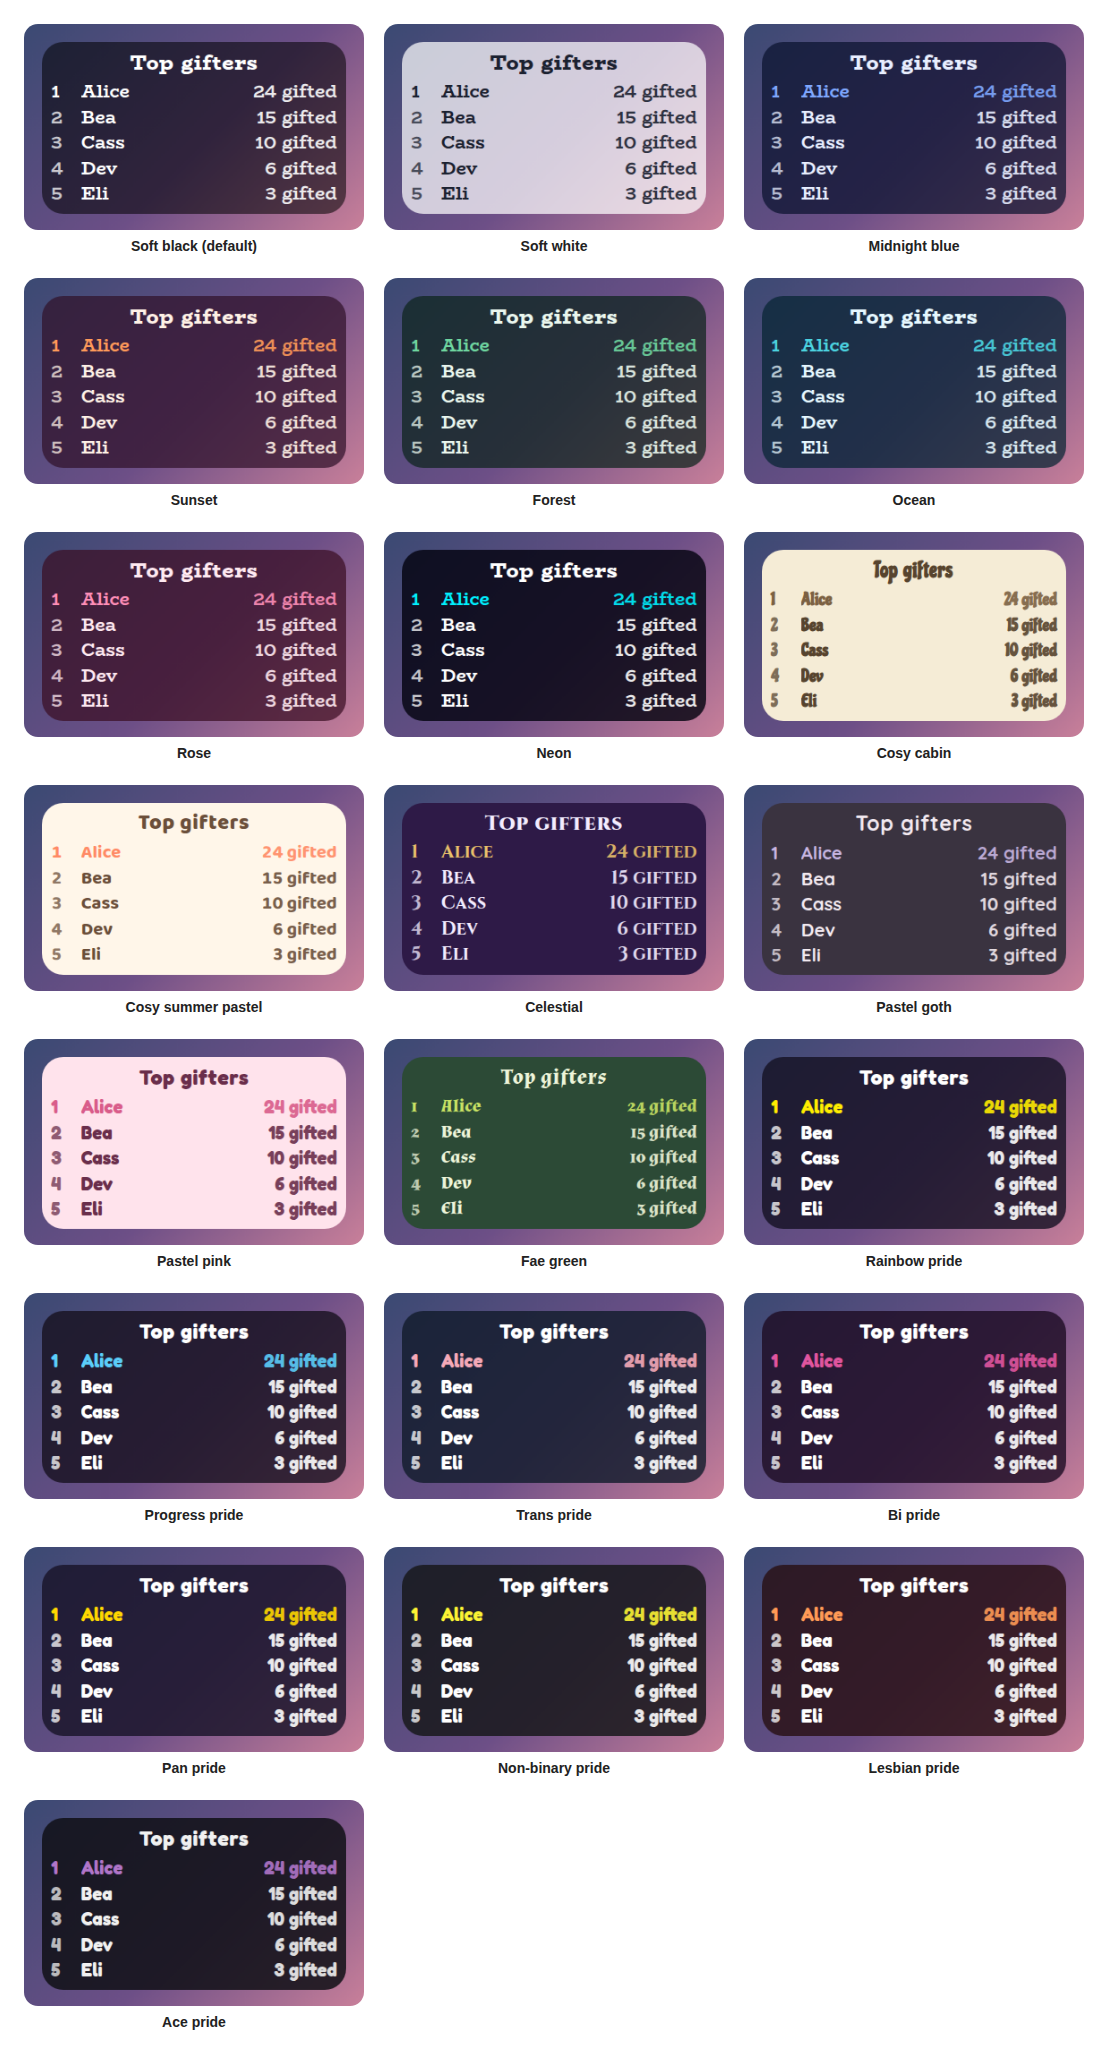
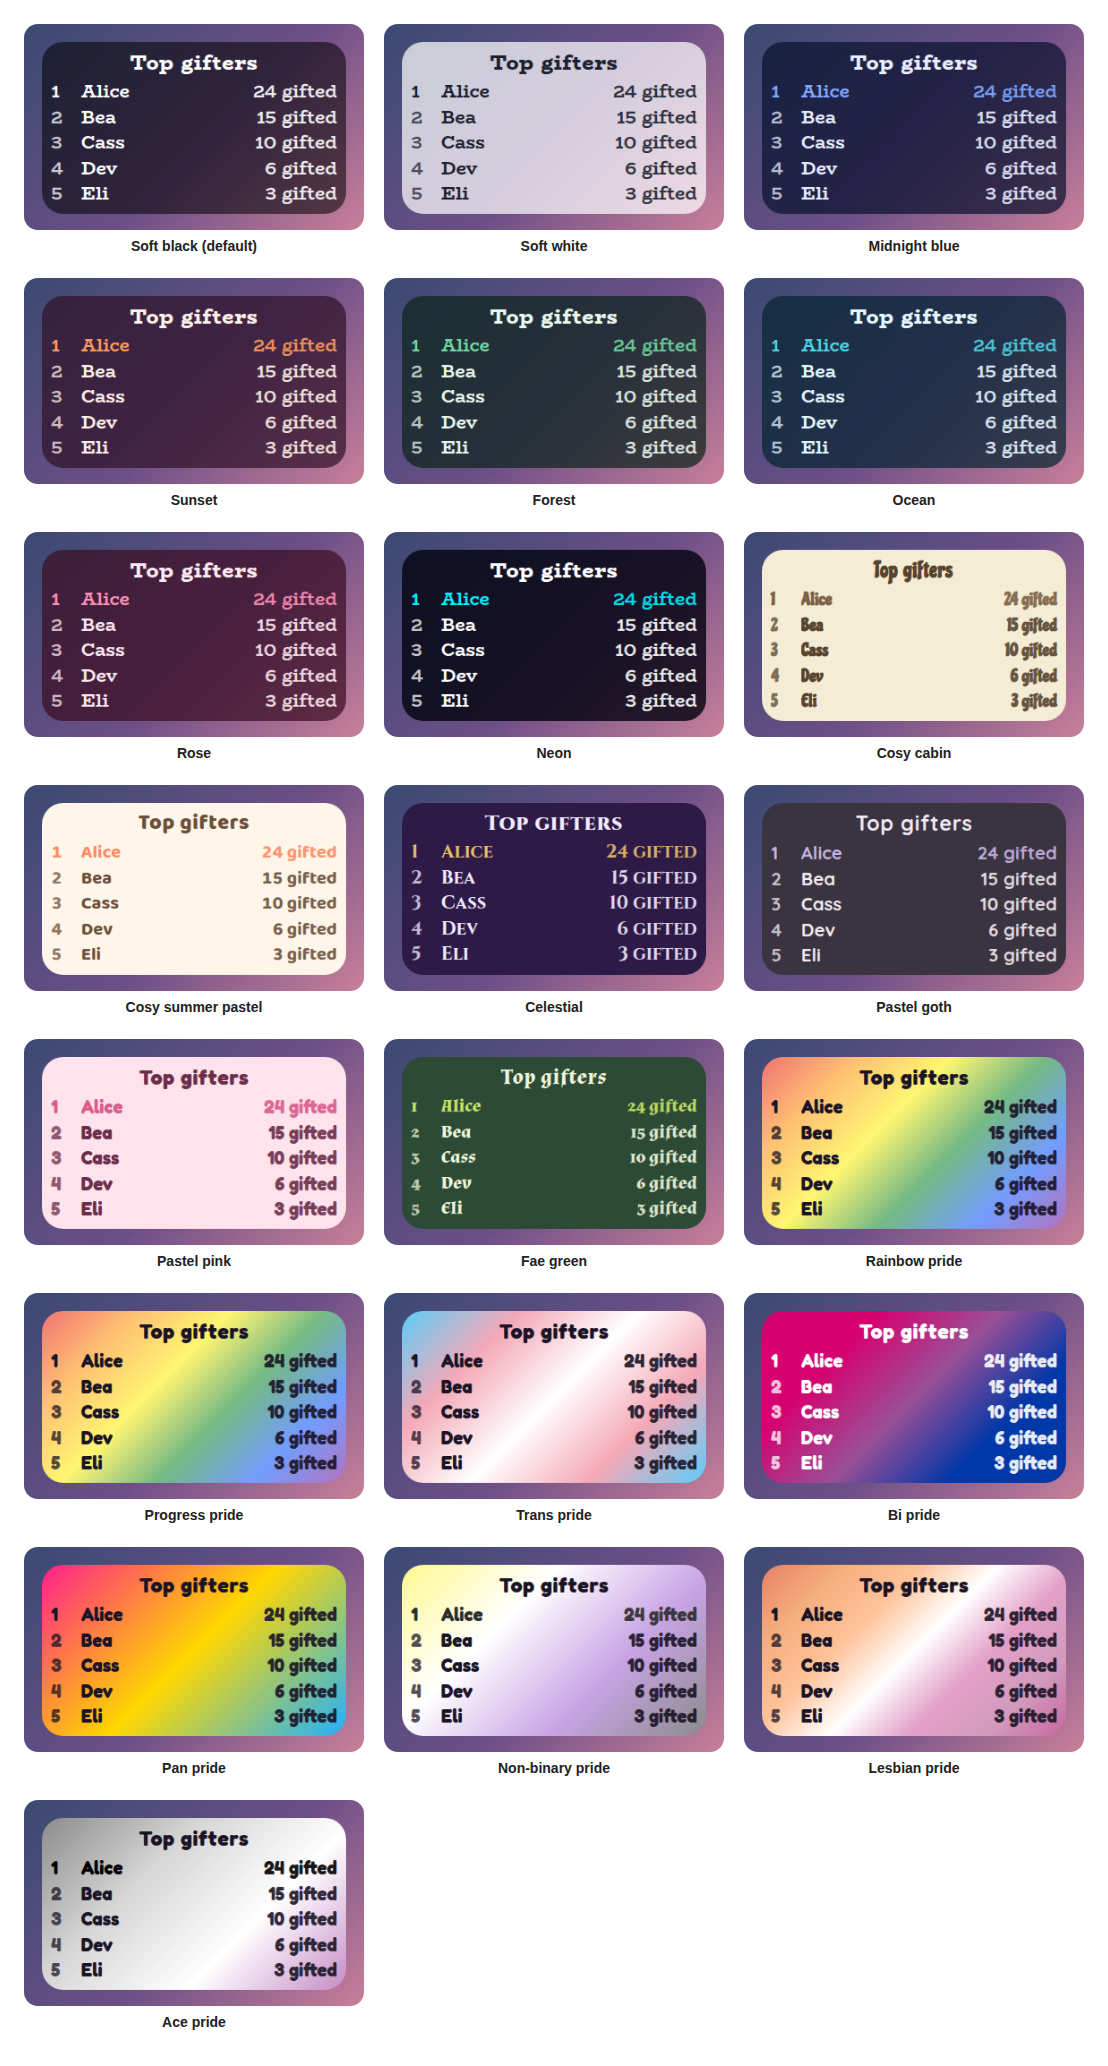
Give the pride presets flag-coloured panels
The pride presets used to be a dark card with only a thin striped bar, so the flag barely showed and the card did not match the palette. Now the card or panel itself wears the flag, as a soft gradient of its stripes, with the text kept readable.

How strong a wash goes over it is worked out, not guessed: the weakest scrim that keeps the text at a contrast of 4.6 or better against every stripe, in white or dark text as the flag needs. Trans, bi and pan need none, and a flag with a black stripe, such as ace and non-binary, gets a lighter wash. A plain colour stays as the fallback, so nothing that only understands a colour is affected, and every other preset, and Custom, is unchanged. The README gallery shows all twenty-two, and the tests check it.

Changed region(s): [[0.0307, 0.6196, 0.6444, 0.9603], [0.6751, 0.4956, 0.9819, 0.8674]]

diff --git a/widget/widget.js b/widget/widget.js
@@ -18,14 +18,14 @@
     pastelgoth: { panel: "#3A3340", text: "#F2E9F0", accent: "#C8B6E2", track: "rgba(255, 255, 255, 0.18)", alarm: "#C96A8E", font: "Quicksand" },
     pastelpink: { panel: "#FFE3EC", text: "#6A2E4B", accent: "#D95C8A", track: "rgba(106, 46, 75, 0.14)", alarm: "#D6456F", font: "Fredoka" },
     faegreen: { panel: "#2C4A36", text: "#EEF5DA", accent: "#C9E265", track: "rgba(238, 245, 218, 0.2)", alarm: "#E0805A", font: "Almendra" },
-    pride: { panel: "rgba(20, 16, 34, 0.8)", text: "#FFFFFF", accent: "#FFEE00", track: "rgba(255, 255, 255, 0.2)", alarm: "#FF5C5C", font: "Fredoka", flag: ["#E50000", "#FF8D00", "#FFEE00", "#028121", "#004CFF", "#770088"] },
-    progress: { panel: "rgba(22, 16, 30, 0.8)", text: "#FFFFFF", accent: "#5BCEFA", track: "rgba(255, 255, 255, 0.2)", alarm: "#FF5C5C", font: "Fredoka", flag: ["#E50000", "#FF8D00", "#FFEE00", "#028121", "#004CFF", "#770088"] },
-    trans: { panel: "rgba(18, 28, 44, 0.82)", text: "#FFFFFF", accent: "#F5A9B8", track: "rgba(255, 255, 255, 0.2)", alarm: "#FF5C5C", font: "Fredoka", flag: ["#5BCEFA", "#F5A9B8", "#FFFFFF", "#F5A9B8", "#5BCEFA"] },
-    bi: { panel: "rgba(30, 14, 36, 0.82)", text: "#FFFFFF", accent: "#E0559F", track: "rgba(255, 255, 255, 0.2)", alarm: "#FF5C5C", font: "Fredoka", flag: ["#D60270", "#D60270", "#9B4F96", "#0038A8", "#0038A8"] },
-    pan: { panel: "rgba(24, 20, 40, 0.82)", text: "#FFFFFF", accent: "#FFD800", track: "rgba(255, 255, 255, 0.2)", alarm: "#FF5C5C", font: "Fredoka", flag: ["#FF218C", "#FFD800", "#21B1FF"] },
-    enby: { panel: "rgba(24, 24, 28, 0.86)", text: "#FFFFFF", accent: "#FFF433", track: "rgba(255, 255, 255, 0.2)", alarm: "#FF5C5C", font: "Fredoka", flag: ["#FFF433", "#FFFFFF", "#9B59D0", "#2D2D2D"] },
-    lesbian: { panel: "rgba(40, 16, 20, 0.82)", text: "#FFFFFF", accent: "#FF9A56", track: "rgba(255, 255, 255, 0.2)", alarm: "#FF5C5C", font: "Fredoka", flag: ["#D52D00", "#EF7627", "#FF9A56", "#FFFFFF", "#D162A4", "#B55690", "#A30262"] },
-    ace: { panel: "rgba(16, 16, 22, 0.86)", text: "#F1F1F1", accent: "#B075C9", track: "rgba(255, 255, 255, 0.2)", alarm: "#FF5C5C", font: "Fredoka", flag: ["#000000", "#A3A3A3", "#FFFFFF", "#800080"] }
+    pride: { panel: "rgba(194, 168, 154, 0.9)", text: "#1A1426", accent: "#1A1426", track: "rgba(26, 20, 38, 0.34)", alarm: "#B3123A", font: "Fredoka", flag: ["#E50000", "#FF8D00", "#FFEE00", "#028121", "#004CFF", "#770088"], bgimg: "linear-gradient(rgba(255, 255, 255, 0.45), rgba(255, 255, 255, 0.45)), linear-gradient(135deg, #E50000, #FF8D00, #FFEE00, #028121, #004CFF, #770088)" },
+    progress: { panel: "rgba(194, 168, 154, 0.9)", text: "#1A1426", accent: "#1A1426", track: "rgba(26, 20, 38, 0.34)", alarm: "#B3123A", font: "Fredoka", flag: ["#E50000", "#FF8D00", "#FFEE00", "#028121", "#004CFF", "#770088"], bgimg: "linear-gradient(rgba(255, 255, 255, 0.45), rgba(255, 255, 255, 0.45)), linear-gradient(135deg, #E50000, #FF8D00, #FFEE00, #028121, #004CFF, #770088)" },
+    trans: { panel: "rgba(185, 201, 225, 0.9)", text: "#1A1426", accent: "#1A1426", track: "rgba(26, 20, 38, 0.34)", alarm: "#B3123A", font: "Fredoka", flag: ["#5BCEFA", "#F5A9B8", "#FFFFFF", "#F5A9B8", "#5BCEFA"], bgimg: "linear-gradient(135deg, #5BCEFA, #F5A9B8, #FFFFFF, #F5A9B8, #5BCEFA)" },
+    bi: { panel: "rgba(117, 39, 142, 0.9)", text: "#FFFFFF", accent: "#FFFFFF", track: "rgba(255, 255, 255, 0.24)", alarm: "#FF6B6B", font: "Fredoka", flag: ["#D60270", "#D60270", "#9B4F96", "#0038A8", "#0038A8"], bgimg: "linear-gradient(135deg, #D60270, #D60270, #9B4F96, #0038A8, #0038A8)" },
+    pan: { panel: "rgba(181, 142, 132, 0.9)", text: "#1A1426", accent: "#1A1426", track: "rgba(26, 20, 38, 0.34)", alarm: "#B3123A", font: "Fredoka", flag: ["#FF218C", "#FFD800", "#21B1FF"], bgimg: "linear-gradient(135deg, #FF218C, #FFD800, #21B1FF)" },
+    enby: { panel: "rgba(212, 202, 192, 0.9)", text: "#1A1426", accent: "#2D2D2D", track: "rgba(26, 20, 38, 0.34)", alarm: "#B3123A", font: "Fredoka", flag: ["#FFF433", "#FFFFFF", "#9B59D0", "#2D2D2D"], bgimg: "linear-gradient(rgba(255, 255, 255, 0.45), rgba(255, 255, 255, 0.45)), linear-gradient(135deg, #FFF433, #FFFFFF, #9B59D0, #2D2D2D)" },
+    lesbian: { panel: "rgba(232, 167, 169, 0.9)", text: "#1A1426", accent: "#1A1426", track: "rgba(26, 20, 38, 0.34)", alarm: "#B3123A", font: "Fredoka", flag: ["#D52D00", "#EF7627", "#FF9A56", "#FFFFFF", "#D162A4", "#B55690", "#A30262"], bgimg: "linear-gradient(rgba(255, 255, 255, 0.40), rgba(255, 255, 255, 0.40)), linear-gradient(135deg, #D52D00, #EF7627, #FF9A56, #FFFFFF, #D162A4, #B55690, #A30262)" },
+    ace: { panel: "rgba(202, 187, 202, 0.9)", text: "#1A1426", accent: "#000000", track: "rgba(26, 20, 38, 0.34)", alarm: "#B3123A", font: "Fredoka", flag: ["#000000", "#A3A3A3", "#FFFFFF", "#800080"], bgimg: "linear-gradient(rgba(255, 255, 255, 0.55), rgba(255, 255, 255, 0.55)), linear-gradient(135deg, #000000, #A3A3A3, #FFFFFF, #800080)" }
   };
 
   // ---- shared by every overlay in this set ----
@@ -117,6 +117,7 @@
     s.setProperty("--w-track", t.track);
     s.setProperty("--w-alarm", t.alarm);
     s.setProperty("--w-flag", t.flag ? flagGradient(t.flag) : t.accent);
+    s.setProperty("--w-bgimg", t.bgimg || "none");
     s.setProperty("--w-font", '"' + t.font + '", Georgia, serif');
     s.setProperty("--w-radius", c.radius + "px");
     s.setProperty("--w-pad", c.pad);

diff --git a/test/mock.js b/test/mock.js
@@ -112,6 +112,8 @@ module.exports = function createEnv(root) {
         if (v["--w-bg"] !== x.panel || v["--w-text"] !== x.text || v["--w-accent"] !== x.accent || String(v["--w-font"]).indexOf('"' + x.font + '"') !== 0) {
           all = false; console.log("    colours differ for " + key + ": " + v["--w-bg"]);
         }
+        // A pride preset puts its flag behind the panel as an image. Every other preset leaves the panel plain.
+        if (v["--w-bgimg"] !== (x.bgimg || "none")) { all = false; console.log("    panel image differs for " + key + ": " + v["--w-bgimg"]); }
         // A pride preset gives bars the stripes of its flag, top to bottom. Every other preset gives them the accent.
         const wantFlag = x.flag ? "linear-gradient(180deg, " + x.flag[0] + " 0% " + (100 / x.flag.length) + "%" : x.accent;
         if (x.flag ? String(v["--w-flag"]).indexOf(wantFlag) !== 0 || String(v["--w-flag"]).split(", ").length !== x.flag.length + 1 : v["--w-flag"] !== wantFlag) {

diff --git a/widget/widget.css b/widget/widget.css
@@ -45,6 +45,7 @@
   font-family: var(--w-font);
   color: var(--w-text);
   background: var(--w-bg);
+  background-image: var(--w-bgimg, none);
   border: var(--w-border);
   border-radius: var(--w-radius);
   box-shadow: var(--w-shadow);

diff --git a/README.md b/README.md
@@ -53,16 +53,16 @@ One setting picks the look. The same twenty-two presets, with the same colours, 
 | Pastel goth | Charcoal and lilac, in Quicksand. |
 | Pastel pink | Soft blush pink with rose, in Fredoka. |
 | Fae green | Mossy green with a firefly lime accent, in Almendra. |
-| Rainbow pride | Dark plum with the six rainbow stripes, in Fredoka. |
-| Progress pride | The six rainbow stripes with the chevron's pink and light blue. |
-| Trans pride | Dark blue with light blue, pink and white. |
-| Bi pride | Dark violet with magenta, purple and blue. |
-| Pan pride | Dark indigo with pink, yellow and light blue. |
-| Non-binary pride | Charcoal with yellow, white, purple and black. |
-| Lesbian pride | Dark wine with the orange to pink stripes. |
-| Ace pride | Near black with grey, white and purple. |
+| Rainbow pride | A soft wash of the six rainbow stripes, in Fredoka. |
+| Progress pride | The same stripes, with the chevron's pink and light blue in the wheel and poll colours. |
+| Trans pride | Light blue, pink and white. |
+| Bi pride | Magenta, purple and blue, with white text. |
+| Pan pride | Pink, yellow and light blue. |
+| Non-binary pride | Yellow, white, purple and black, softened so the text stays readable. |
+| Lesbian pride | The orange to pink stripes. |
+| Ace pride | Black, grey, white and purple, softened so the text stays readable. |
 
-The last eight are pride presets, built from the stripes of the rainbow, progress, trans, bi, pan, non-binary, lesbian and ace flags. A bar is striped like the flag where an overlay has one, and the slices of a wheel and the options of a poll take their colours from the stripes in order. The colours follow each flag's published design, and the progress flag shows its six rainbow stripes, because its chevron is a separate shape.
+The last eight are pride presets, built from the stripes of the rainbow, progress, trans, bi, pan, non-binary, lesbian and ace flags. The card or panel wears the flag as its background, with only as much of a wash over it as the text needs to stay readable, so flags with a black stripe come out softer. A bar is striped like the flag where an overlay has one, and the slices of a wheel and the options of a poll take their colours from the stripes in order. The colours follow each flag's published design, and the progress flag shows its six rainbow stripes, because its chevron is a separate shape.
 
 Choose **Custom** to use the colour pickers and font instead. They are ignored while a preset is chosen.
 
